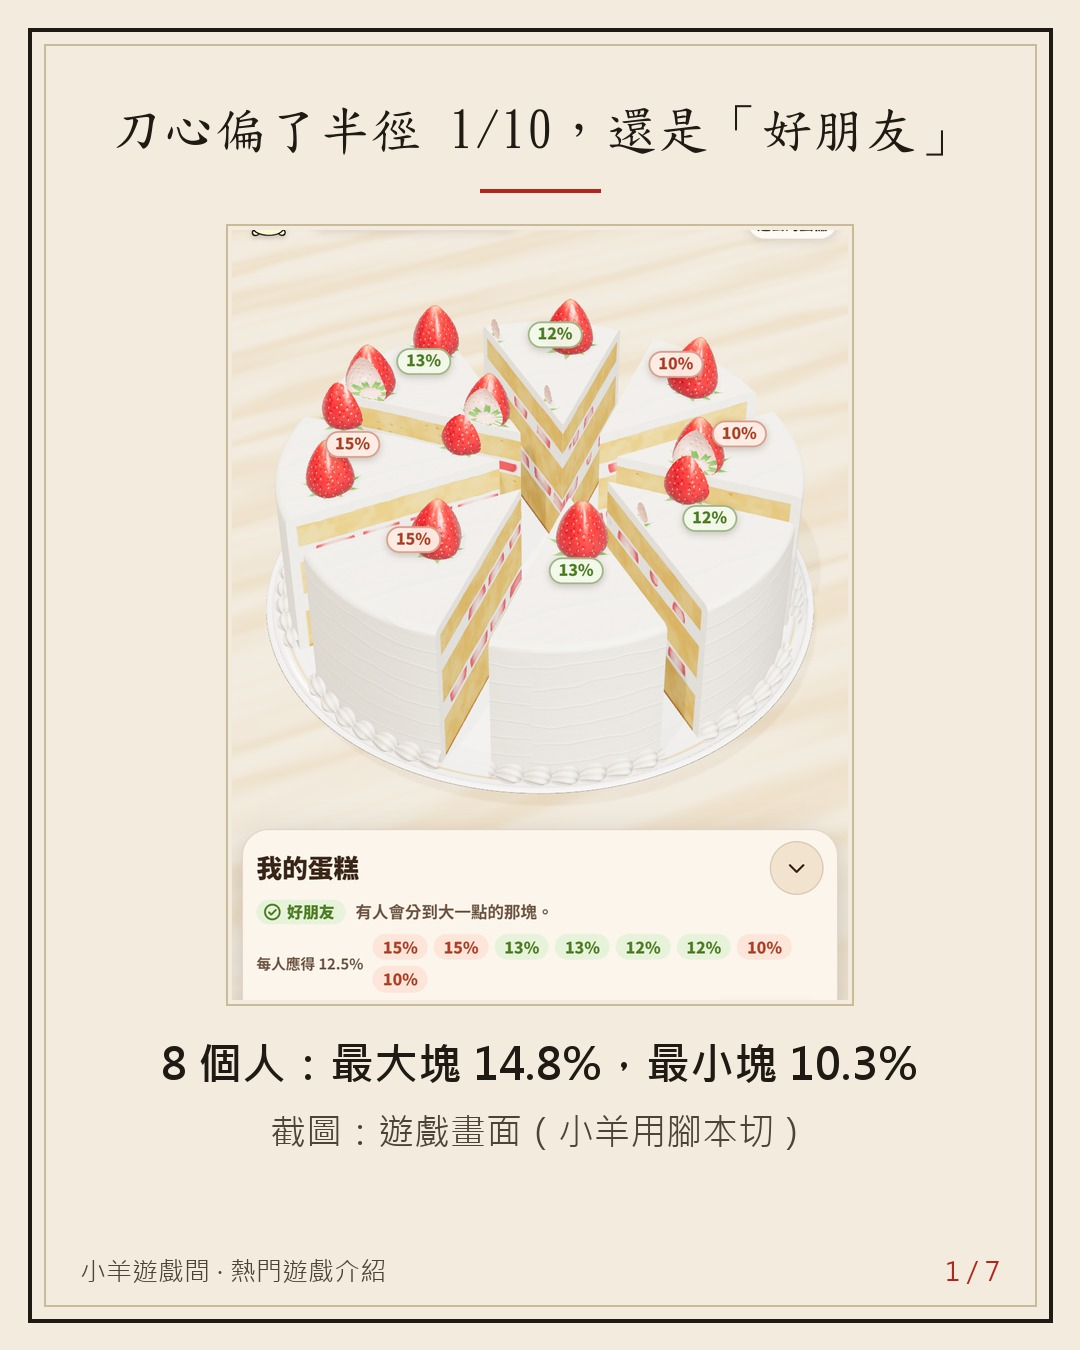
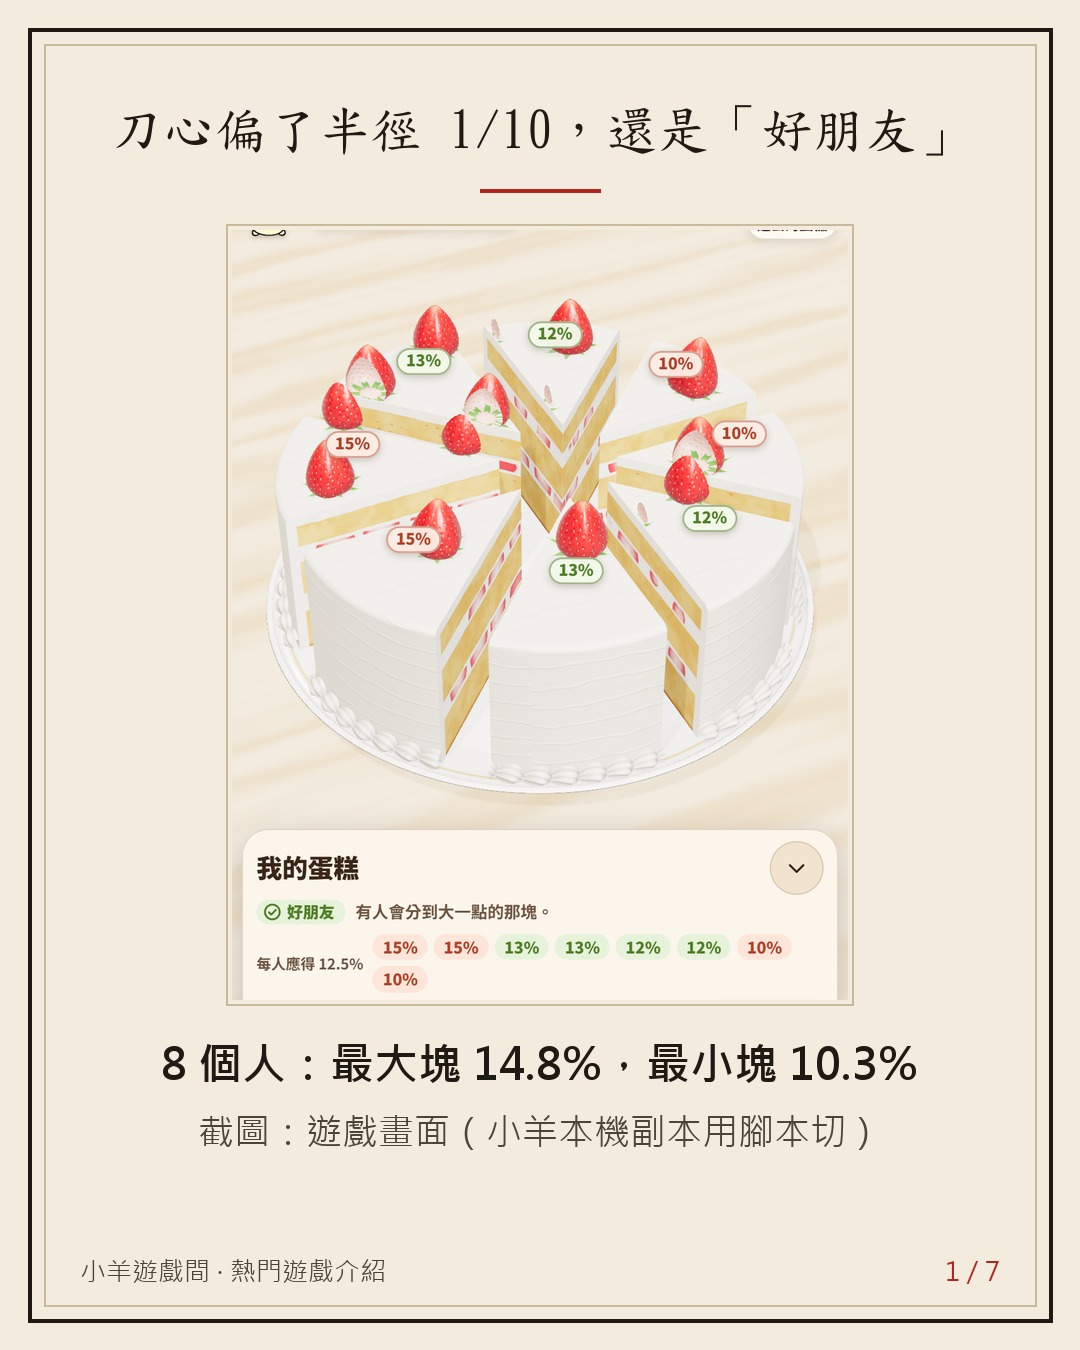
vault backup: 2026-11-11 04:55:46

Changed region(s): [[0.1833, 0.8089, 0.7639, 0.8711]]

diff --git a/Projects/auto promotion/posts/topics.md b/Projects/auto promotion/posts/topics.md
@@ -34,6 +34,7 @@
 | 27 | 《Threads 審核員輪班模擬器》（threads-moderator.vercel.app，玩家自製，非 Threads 官方；作者頁面只有 Ko-fi） | 清單用完後 producer 11/10 自選：4388 熱門第 30、2,737 次遊玩、84%（31 票）；遊戲本身就在講 Threads，和我們發文的平台同一個；放行／封禁／降流，日常題材（奶茶 vs 珍奶、詐騙），不碰政治 | [4388](https://4388.fun/g/8531)、[遊戲](https://threads-moderator.vercel.app/)（11/10 搜尋沒有媒體報導；腳本實玩跑本機副本，不送分數到作者排行榜） | #59 |
 | 28 | 《珍珠奶茶🧋》（zhennai.pages.dev，作者 @squirrel_ray_222，同《地瓜球》） | 清單用完後 producer 11/10 晚自選：4388 熱門第 24、2,447 次遊玩、70%（30 票）、上架 2 天；照台灣手搖店做法 11 步、39 種結局；小羊腳本實做：空氣、蓋子飛走、標準珍珠拿鐵 2 星 | [遊戲](https://zhennai.pages.dev/)、[4388](https://4388.fun/g/16275)（沒有媒體報導，熱度只引 4388；沒有來源說是 AI 做的，貼文不寫 AI；小羊遊戲間尚未收錄；其他候選：做咖哩、做漢堡排、炒冰、塗鴉劍豪、隨興陶藝工房、香城茶餐廳） | #60 |
 | 29 | 《きまぐれ陶芸工房》（隨興陶藝工房，asobi-dojo.com/kimagure-tougei/，日本小遊戲站「遊び道場」） | 清單用完後 producer 11/11 自選：4388 熱門第 27、8,827 次遊玩、83%（98 票）；非料理題材；「同じ形でもう一度焼く」可做腳本實驗：花瓶 40 次平均 75、不捏 20 次平均 51、捏歪 20 次平均 82（破裂那支 art 3 總分 77）；總分＝0.6×加權平均＋0.4×最高一項 | [遊戲](https://asobi-dojo.com/kimagure-tougei/)、[4388](https://4388.fun/g/724)（沒有媒體報導，熱度只引 4388；沒有來源說是 AI 做的，不寫 AI；小羊遊戲間已收錄 724；不選《台灣蚵仔煎》2205：隱藏結局影射政治人物；其他候選：塗鴉劍豪、台灣包裹盲盒、剝蚵仔模擬器、夜市小吃王） | #61 |
+| 30 | 《なかよしケーキシミュレーター》（隨心裝飾蛋糕，再公平地切給朋友們吧，nakayoshicake.kosukuma.com，日本「こす.くま」） | 清單用完後 producer 11/11 晚自選：4388 熱門第 20、12,449 次遊玩、86%（199 票）；裝飾後公平切給 2～8 位朋友；公平度＝100×(1−最偏那塊相對偏差)、只算面積；腳本實切：照數學 100、刀心偏半徑 1/10 → 81「好朋友」、長條等距 4 塊 78 | [遊戲](https://nakayoshicake.kosukuma.com/)、[4388](https://4388.fun/g/652)（沒有媒體報導，熱度只引 4388；沒有來源說是 AI 做的，不寫 AI；小羊遊戲間已收錄 652；下一個候選：二郎系拉麵加量塔 747） | #62 |
 
 不選：AI 反編譯、移植的商業遊戲網頁版（Halo、GTA Vice City 等，有著作權問題）；《傳說對決》（小羊不要）。
 

diff --git a/Projects/auto promotion/2026-11-11.md b/Projects/auto promotion/2026-11-11.md
@@ -227,3 +227,4 @@
 | 20:46 | ghost-reply-post-2200 | 發文 | Threads 自己留言：回 queeniiiiiiiiiiiiiie「我好像沒有數有幾隻手」 | https://www.threads.com/@gui.chang.shi/post/Dfmg1e_G4yL |
 | 20:46 | ghost-reply-post-2200 | 完成 | 20:00 回覆組：IG 3/4（第 4 則沒有合適的貼文）、Threads 6/6、找故事 0（沒有在找故事的人）、自己留言 1；今天一般回覆 IG 6/15、Threads 15/30 |  |
 | 20:48 | promo-producer | 進度 | 熱門 #62 なかよしケーキシミュレーター（切蛋糕公平度）：腳本實切＋模擬完成、7 張卡已出，送評審 |  |
+| 20:52 | promo-producer | 完成 | 熱門 #62 待發：我寫腳本切蛋糕（なかよしケーキシミュレーター），評審 8.2，posts/62.md；存貨 卡 2、生在中國 Reel 3、鬼唱詩 4（待審 1／要修改 0）、熱門 4／日記 4 |  |
